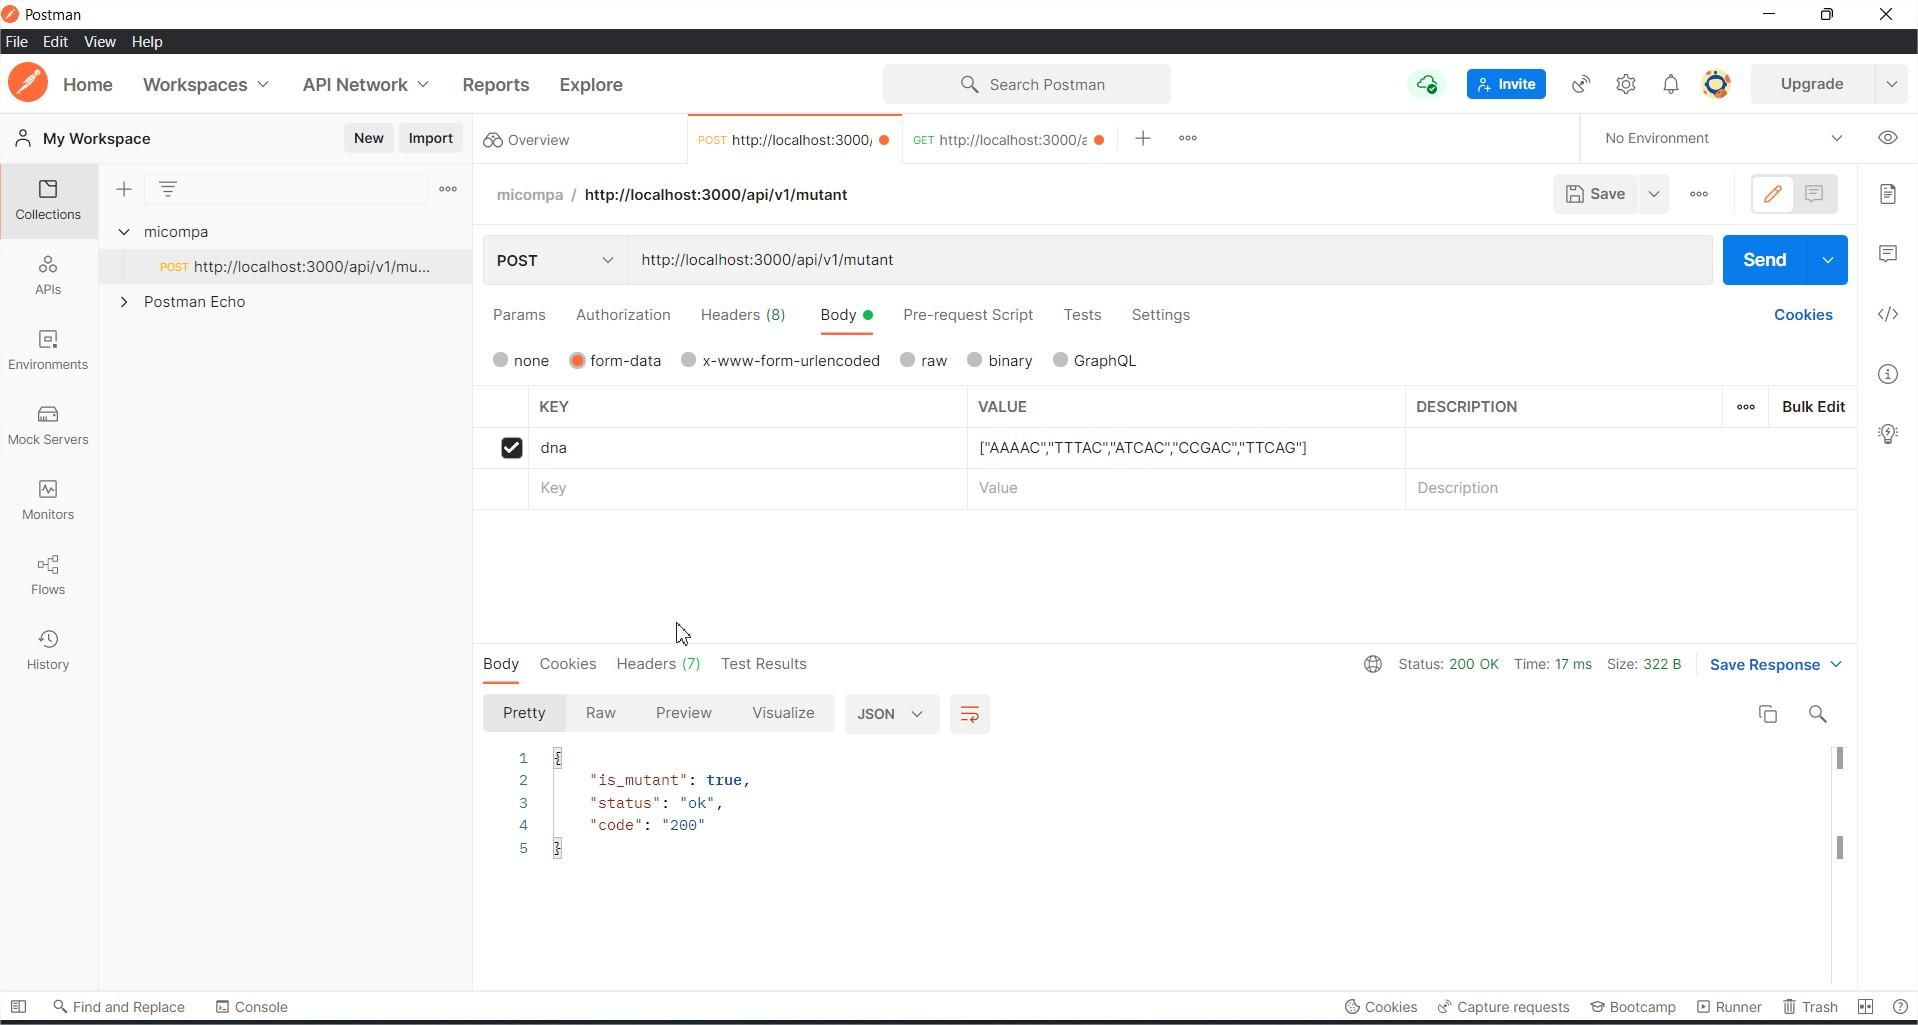
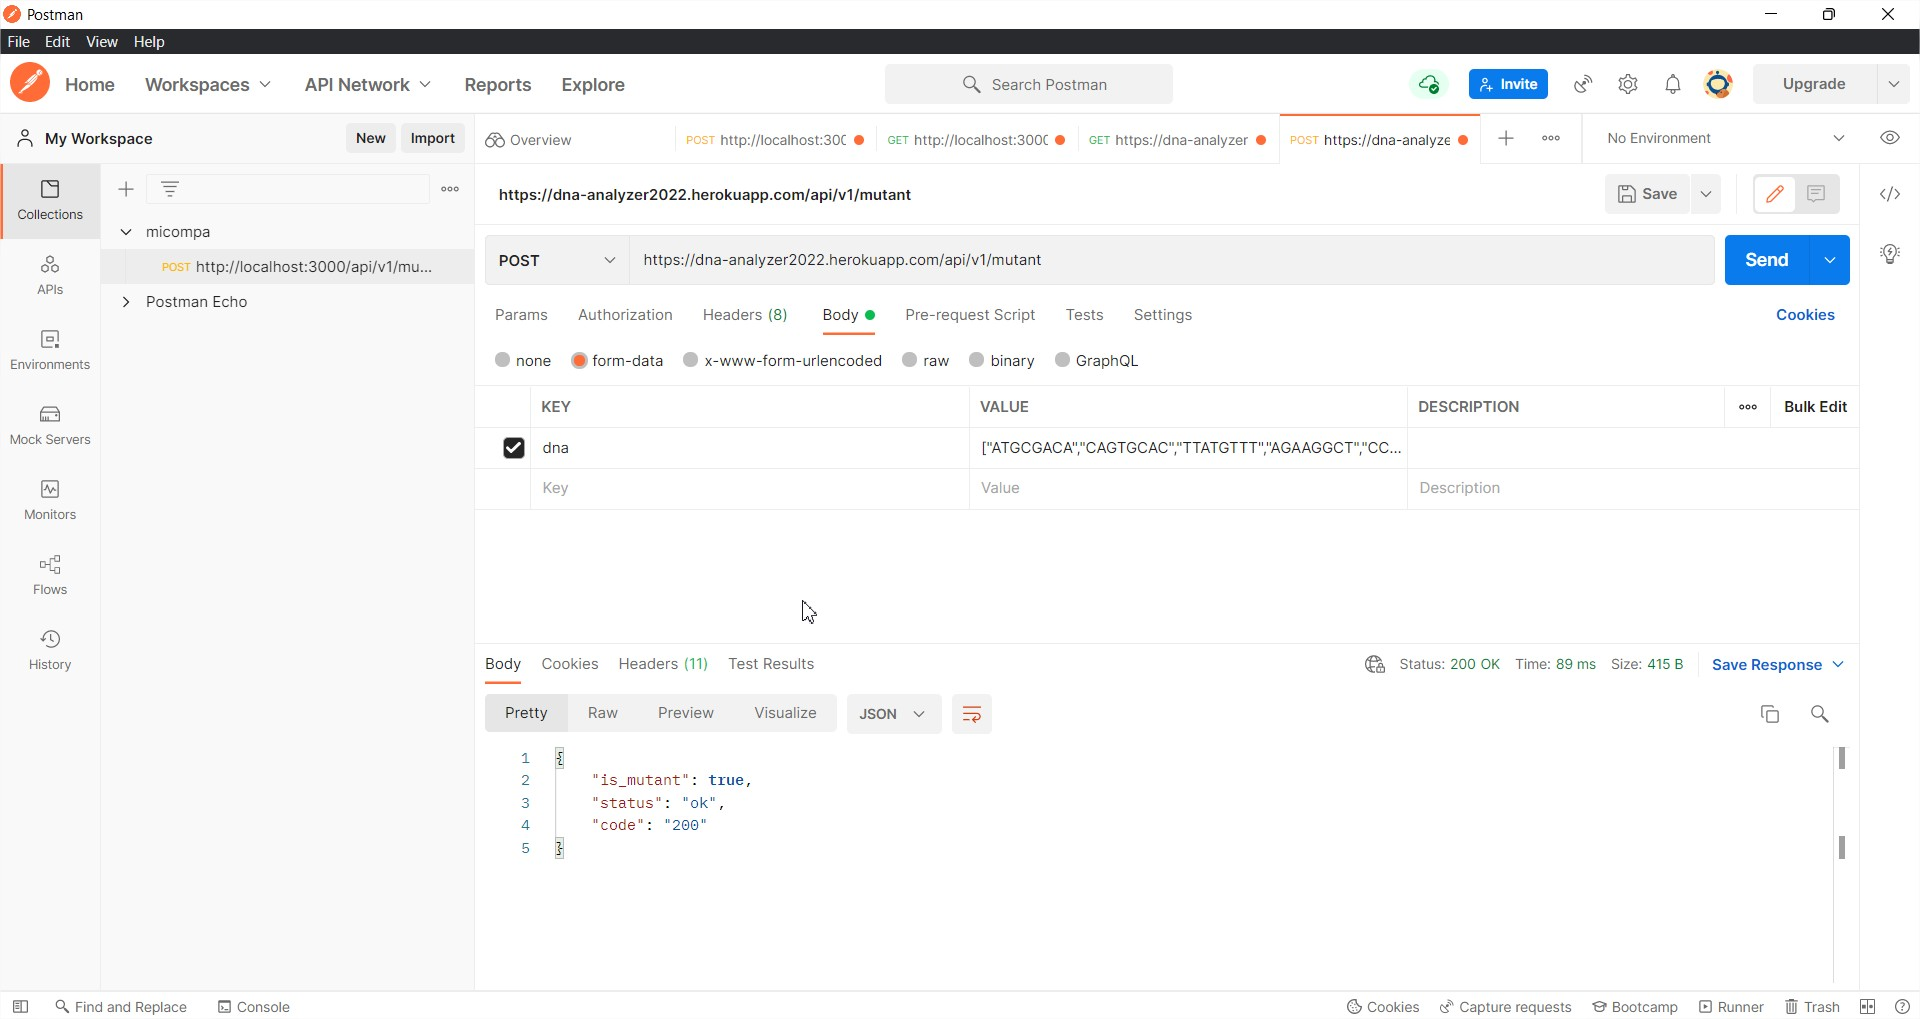
validate size

diff --git a/app/models/dna_analizer.rb b/app/models/dna_analizer.rb
@@ -12,8 +12,9 @@ class DnaAnalizer < ApplicationRecord
   include SequenceAnalyzer
 
   validates :dna, presence: true
-  # validate :is_array?
-  # validate :nitrogen_base?
+  validate :is_array?
+  validate :nitrogen_base?
+  validate :minimum_size
 
   after_save :mutant?
 
@@ -34,5 +35,18 @@ class DnaAnalizer < ApplicationRecord
     end
   rescue JSON::ParserError
     errors.add(:dna, "isn't a valid nitrogen base")
+  end
+
+  def minimum_size
+    dna_array = JSON.parse(dna)
+    puts "SIZE:"
+    puts "SIZE: #{dna_array.size}"
+    if dna_array.size < 4
+      errors.add(:dna, 'does not have the minimum size')
+    else
+      puts "CUMPLE EL REQUISITO"
+    end
+  rescue JSON::ParserError
+    errors.add(:dna, 'does not have the minimum size')
   end
 end

diff --git a/spec/factories/dna_analizers.rb b/spec/factories/dna_analizers.rb
@@ -1,3 +1,13 @@
+# == Schema Information
+#
+# Table name: dna_analizers
+#
+#  id         :bigint           not null, primary key
+#  dna        :string
+#  is_mutant  :boolean
+#  created_at :datetime         not null
+#  updated_at :datetime         not null
+#
 FactoryBot.define do
   factory :dna_analizer do
     dna { '["AAAAC","TTTAC","ATCAC","CCGAC","TTCAG"]' }
